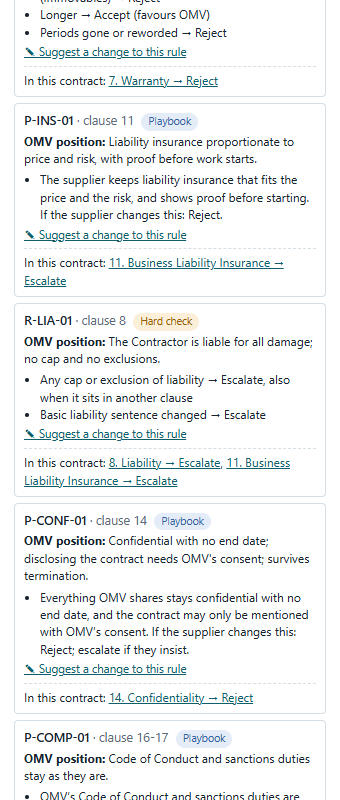
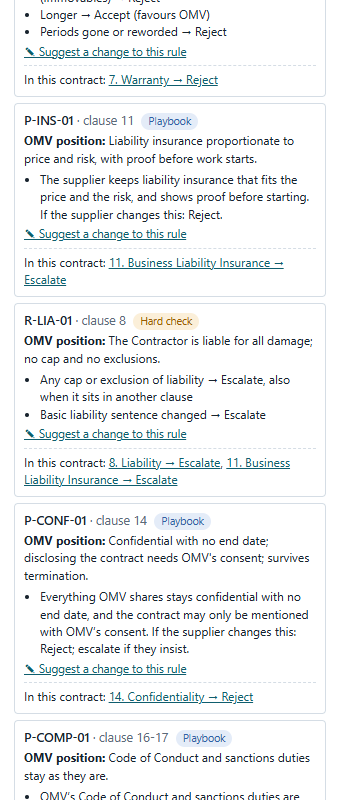
Cleaner panel: remove explanatory small text

diff --git a/taskpane.js b/taskpane.js
@@ -152,9 +152,9 @@
     saveLog(); renderLog();
   }
   function renderLog() {
-    if (!log.length) { $("log").innerHTML = `<p class="muted">No decisions yet. Every Accept, Reject, Escalate, Go back and rule proposal is recorded here and saved inside this document.</p>`; return; }
+    if (!log.length) { $("log").innerHTML = `<p class="muted">No decisions yet.</p>`; return; }
     const time = (t) => { const d = new Date(t); return d.toLocaleDateString() + " " + d.toLocaleTimeString([], { hour: "2-digit", minute: "2-digit" }); };
-    let h = `<p class="muted">Saved inside this document. Your name is on each reply in the Word comments.</p><table class="logt"><tr><th>When</th><th>Clause</th><th>Suggested</th><th>Decision</th></tr>`;
+    let h = `<table class="logt"><tr><th>When</th><th>Clause</th><th>Suggested</th><th>Decision</th></tr>`;
     [...log].reverse().forEach((e) => {
       const over = e.suggested !== "(no rule)" && ACT_LABEL[e.decision.toLowerCase()] && e.decision !== e.suggested;
       h += `<tr><td>${esc(time(e.t))}</td><td>${esc(e.clause)}</td><td>${esc(e.suggested)}</td><td>${over ? "<b>" : ""}${esc(e.decision)}${over ? "</b>" : ""}${e.note ? `<div class="note">${esc(e.note)}</div>` : ""}</td></tr>`;
@@ -167,7 +167,7 @@
 
   // ---------------- the rulebook tab ----------------
   function renderRules() {
-    let h = `<div class="rbhead"><b>Rulebook ${esc(CG.RULEBOOK_VERSION)}</b><br>Owner: ${esc(CG.RULEBOOK_OWNER.name)}. Two kinds of rules: <b>hard checks</b> (coded, for critical numbers and facts) and <b>playbook</b> entries (plain sentences the lawyers write and edit). Lawyers propose changes; the legal team approves before they’re used. Matching new wording to a rule uses key phrases here; at OMV a local model would do it.</div>`;
+    let h = `<div class="rbhead"><b>Rulebook</b></div>`;
     for (const r of CG.RULES) {
       const used = review ? review.findings.map((f, i) => ({ f, i })).filter((x) => x.f.rule === r || x.f.matched === r) : [];
       h += `<div class="rule${r.id === currentRule ? " cur" : ""}" data-id="${r.id}"><div class="rid">${esc(r.id)} <span>· ${esc(r.source.replace("OMV GPC Jan 2026, ", ""))}</span> <span class="kind ${r.kind}">${r.kind === "hard" ? "Hard check" : "Playbook"}</span></div>`;
@@ -176,7 +176,6 @@
       if (used.length) h += `<div class="used">In this contract: ` + used.map((x) => `<a href="#" class="tochange" data-i="${x.i}">${esc((x.f.c || x.f.b).num)}. ${esc(x.f.head)} → ${esc(CG.suggestion(x.f))}</a>`).join(", ") + `</div>`;
       h += `</div>`;
     }
-    h += `<div class="rule"><div class="rid">Every other change</div><ul><li>No rule covers it → You decide. ContractGuard never guesses.</li><li>A rule's point is unchanged but other wording changed → You decide.</li><li>Only punctuation, capitals or spacing changed → Accepted automatically.</li></ul></div>`;
     const body = `Proposal for a new ContractGuard rule\n\nClause:\nWhen the supplier changes:\nContractGuard should suggest (Accept / Reject / Escalate to whom):\nBecause:\n\nProposed by:`;
     h += `<a class="mini" href="${mailto(CG.RULEBOOK_OWNER.email, "ContractGuard: new rule proposal", body)}" target="_blank" rel="noopener">✎ Propose a new rule</a>`;
     $("rules").innerHTML = h;
@@ -309,7 +308,7 @@
       const n = await deleteOurComments(ctx);
       if (n) addEvent("Comments removed", `${n} ContractGuard comment${n === 1 ? "" : "s"}`);
       status(n ? `Removed ${n} ContractGuard comment${n > 1 ? "s" : ""}. Yellow highlights stay; use Undo or remove them by hand.` : "No ContractGuard comments found.");
-      $("result").innerHTML = `<p class="muted">Press Run review to see the supplier's changes here.</p>`;
+      $("result").innerHTML = "";
       review = null; decisions = []; pending = null; proposing = null;
       renderRules();
     });
@@ -746,7 +745,7 @@
         h += `</div>`;
         if (proposing === i) {
           const should = ACT_LABEL[d.k] + (d.k === "escalate" ? " to " : "");
-          h += `<div class="form" data-i="${i}"><div class="ft">Propose a rule to ${esc(CG.RULEBOOK_OWNER.name)}. It only goes live after Legal approves it.</div>
+          h += `<div class="form" data-i="${i}"><div class="ft">Propose a rule</div>
             <label>When the supplier…<textarea class="p-when" rows="3">${esc(changeSummary(f))}</textarea></label>
             <label>ContractGuard should suggest<input class="p-should" value="${esc(should)}"></label>
             <label>Because<textarea class="p-because" rows="2" placeholder="Why this is OMV's position">${esc(d.note || "")}</textarea></label>

diff --git a/taskpane.html b/taskpane.html
@@ -8,7 +8,6 @@
 </head>
 <body>
   <h1>ContractGuard</h1>
-  <p class="sub">Compares the supplier’s version with OMV’s General Conditions of Purchase, suggests what to do with each change, and adds a comment to it. You decide every change.</p>
 
   <button class="btn" id="run" disabled>Run review</button>
   <div id="confirm" class="form" hidden></div>
@@ -16,16 +15,13 @@
   <div class="tabs">
     <button class="tab on" data-tab="changes">Changes</button><button class="tab" data-tab="rules">Rulebook</button><button class="tab" data-tab="log">Log</button>
   </div>
-  <div id="result"><p class="muted">Press Run review to see the supplier's changes here.</p></div>
+  <div id="result"></div>
   <div id="rules" hidden></div>
   <div id="log" hidden></div>
 
   <button class="linkbtn" id="clear" disabled>Remove ContractGuard’s comments (yours stay)…</button>
 
-  <div class="foot">
-    Practice version. Templates: OMV General Conditions of Purchase (Austrian law, January 2026 and November 2025), the public versions from omv.com. Rulebook: 9 draft rules, not approved by OMV Legal. E-mail addresses are placeholders. No AI model. The contract never leaves your computer.<br><br>
-    Panel version 22.<br><br>Test files: <a href="samples/supplier-example1.docx" target="_blank" rel="noopener">task example (60 → 30 days)</a> · <a href="samples/supplier-tough-round.docx" target="_blank" rel="noopener">tough round (12 changes)</a> · <a href="samples/supplier-own-terms.docx" target="_blank" rel="noopener">supplier’s own terms</a> · <a href="samples/supplier-nov2025-based.docx" target="_blank" rel="noopener">based on Nov 2025</a> · <a href="samples/round1-omv-sent.docx" target="_blank" rel="noopener">round 1 (OMV sent)</a> · <a href="samples/round2-supplier.docx" target="_blank" rel="noopener">round 2 (supplier)</a> · <a href="samples/omv-template.docx" target="_blank" rel="noopener">OMV template</a>.
-  </div>
+  <div class="foot">Panel version 23</div>
 
 <script>
   // Always load the newest rules, code and styles, so Word never shows an old copy.

diff --git a/rules.js b/rules.js
@@ -331,7 +331,7 @@
     if (f.b && f.c && f.b.num !== f.c.num) L.push("", `Note: OMV clause ${f.b.num} is clause ${f.c.num} here.`);
     const kind = (r) => (r.kind === "hard" ? "hard check" : "playbook");
     if (f.rule && !f.cosmetic && f.a !== "review") L.push("", `Rule ${f.rule.id} (${kind(f.rule)}) · ${f.rule.source}`);
-    if (f.matched) L.push(`Matched by meaning to rule ${f.matched.id} (${kind(f.matched)}). Prototype: key phrases; at OMV a local model.`);
+    if (f.matched) L.push(`Matched to rule ${f.matched.id}.`);
     return L.join("\n");
   }
 
